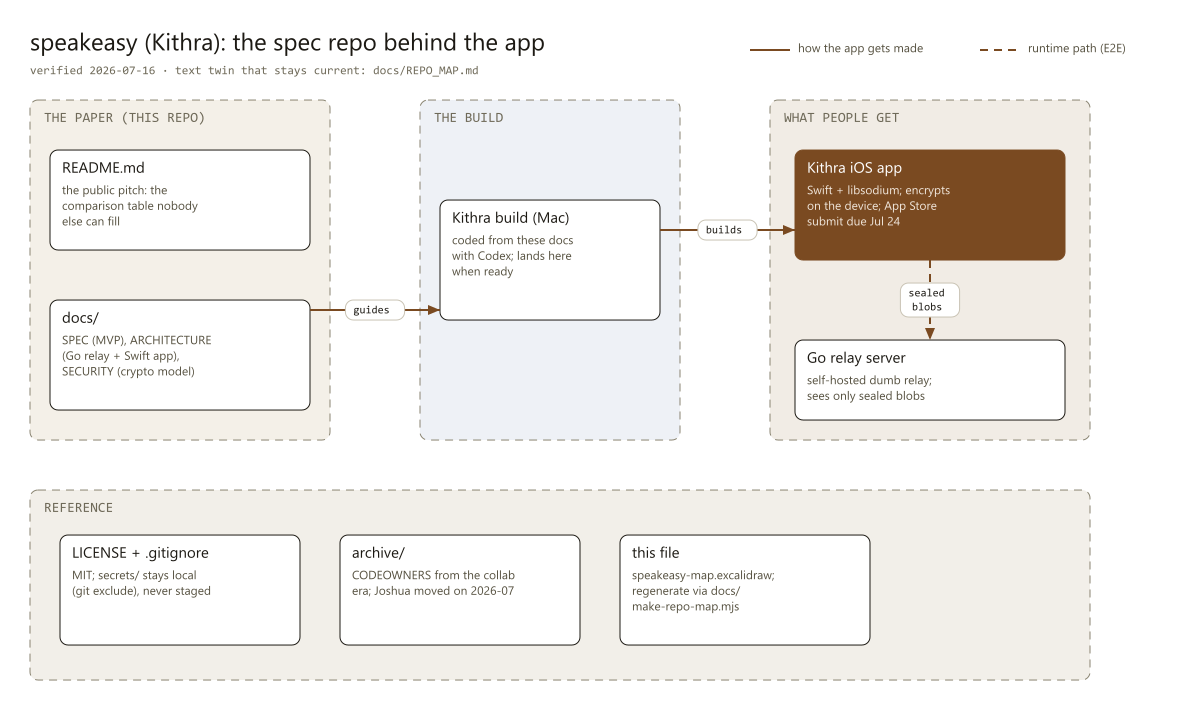
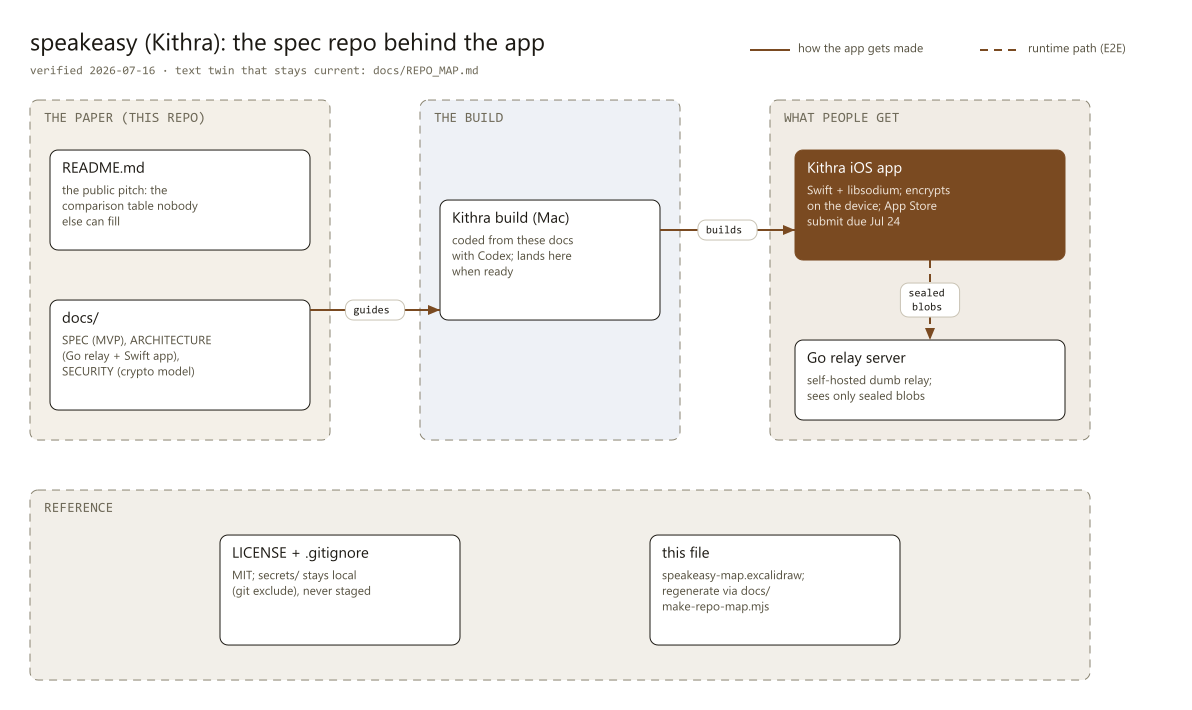
Remove prior collaborator's name ahead of App Store submission
LICENSE copyright reassigned to Joaquim Pacer, security contact moved to security@jqinnovation.com, archive/CODEOWNERS and the archive/ folder deleted, the REPO_MAP row removed, and the repo map diagram regenerated from source.

Written consent was obtained 2026-07-30. The record is retained privately rather than committed, because this repo is public and publishing it would restore the name it removes.

diff --git a/docs/REPO_MAP.md b/docs/REPO_MAP.md
@@ -16,7 +16,6 @@ This repo is the paper behind Kithra (working name speakeasy): the spec, archite
 | `docs/` | [SPEC.md](SPEC.md) (the MVP scope and flows), [ARCHITECTURE.md](ARCHITECTURE.md) (Go relay + Swift iOS client, and the planned `server/` + `ios/` layout), [SECURITY.md](SECURITY.md) (libsodium crypto model, threat model), this map, and [MARKETING.md](MARKETING.md). | The design changes; keep SPEC and the app honest with each other. |
 | `LICENSE` | MIT. Open source is part of the trust story. | Never, realistically. |
 | `.gitignore` + local `secrets/` | `secrets/` exists only on this machine (kept out via `.git/info/exclude`); never stage it. | Never stage secrets, in any repo. |
-| `archive/` | `CODEOWNERS` from the collaboration era: Joshua Ohana started the repo off and moved on (2026-07); the repo is solely Joaquim's now. | Never; it exists so history is browsable. |
 
 Root file `speakeasy-map.excalidraw` is the visual version of this page.
 

diff --git a/docs/SECURITY.md b/docs/SECURITY.md
@@ -89,6 +89,6 @@ The server is **untrusted by design**:
 
 If you discover a security vulnerability, please **do not** open a public GitHub issue.
 
-Contact: security@ohanaindustries.com
+Contact: security@jqinnovation.com
 
 We will acknowledge receipt within 48 hours and aim to provide a fix within 7 days for critical issues.
